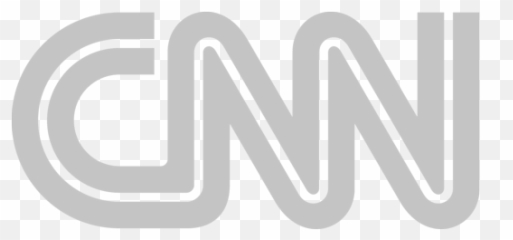
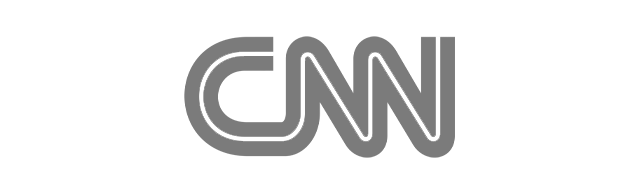
Ajout des partenaires

diff --git a/index.html b/index.html
@@ -229,30 +229,25 @@
                 </ul>
             </li>
             <li><a href="#">Solution &dtrif;</a>
-                <ul class="dropdown">
-                    <li><a href="#">Solution</a></li>
-                    <li><a href="#">Developper</a></li>
-                    <li><a href="#">Company</a></li>
-                    <li><a href="#">Pricing</a></li>
-                    <li><a href="#">Blog</a></li>
-                </ul>
+
             </li>
             <li><a href="#">Developper &dtrif;</a>
-                <ul class="dropdown">
-                    <li><a href="#">Solution</a></li>
-                    <li><a href="#">Developper</a></li>
-                    <li><a href="#">Company</a></li>
-                    <li><a href="#">Pricing</a></li>
-                    <li><a href="#">Blog</a></li>
-                </ul>
+
             </li>
             <li><a href="#">Company &dtrif;</a>
-                <ul class="dropdown">
-                    <li><a href="#">Solution</a></li>
-                    <li><a href="#">Developper</a></li>
-                    <li><a href="#">Company</a></li>
-                    <li><a href="#">Pricing</a></li>
-                    <li><a href="#">Blog</a></li>
+                <ul class="dropdown menuContent">
+                    <div class="item">
+                        <div class="itemDetails">
+                            <div class="itemText">
+                                <a href="#">Navigation Solution</a>
+                                <a href="#">Navigation Solution</a>
+                                <a href="#">Navigation Solution</a>
+                                <a href="#">Navigation Solution</a>
+                                <a href="#">Navigation Solution</a>
+                                <a href="#">Navigation Solution</a>
+                        </div>
+                        </div>
+                    </div>
                 </ul>
             </li>
             <li><a href="#">Pricing</a>
@@ -274,6 +269,24 @@
     </header>
     <div class="slider">
         <h1>Slider</h1>
+    </div>
+
+
+    <div class="partenaires">
+        <p class="partenaire">TRUSTED BY THE INDUSTRY LEADERS</p>
+        <div class="imgPartenaires">
+            <img src="/images/gm.png" >
+            <img src="/images/cnn.png" >
+            <img src="/images/bmw.png" >
+            <img src="/images/strava.png" >
+            <img src="/images/instac.png" >
+            <img src="/images/chanel.png" >
+            <img src="/images/mobile.png" >
+            <img src="/images/snow.png" >
+            <img src="/images/toyot.png" >
+            <img src="/images/chanel.png" >
+        </div>
+        <a href="#">View customer stories →</a>
     </div>
     <div class="location">
         <div class="location-txt">

diff --git a/css/styles.css b/css/styles.css
@@ -1,3 +1,34 @@
+@media (max-width : 800px){
+
+    .location {
+        margin : 20px 40px !important;
+        display: flex;
+        flex-direction: column !important;
+        justify-content: center;
+        align-items: center;
+    }
+    .location-txt {
+        width : 100% !important;
+        text-align: center;
+        margin-top : 30px !important
+    }
+    .map {
+        width : 100% !important;
+    }
+
+    section {
+
+        margin : 80px 50px !important;
+        padding :80px 0px;
+
+    }
+
+    nav ul {
+        display: none !important;
+    }
+
+}
+
 * {
     padding :0px;
     margin :0px;
@@ -382,4 +413,40 @@ section p{
         font-weight: 600px;
         letter-spacing: 1px;
     }
+    .partenaires {
+        display: flex;
+        flex-direction: column;
+        justify-content: center;
+        align-items: center;
+        margin : 50px 0px;
+    }
+    .partenaire {
+        display: flex;
+        margin : 50px 0px;
+    }
+
+    .imgPartenaires {
+        display: flex;
+        flex-direction: row;
+        flex-wrap: wrap;
+        width : 80%;
+        row-gap: 30px;
+    }
+
+    .imgPartenaires img{
+        width : 20%;
+    }
+    .partenaires p{
+        letter-spacing: 3px;
+    }
+    .partenaires a{
+        color :#007afc !important;
+        text-decoration: none;
+        margin-top : 50px;
+    }
+    .partenaires a:hover{
+        letter-spacing: 1px;
+        transition: all .15s;
+    }
+
 
